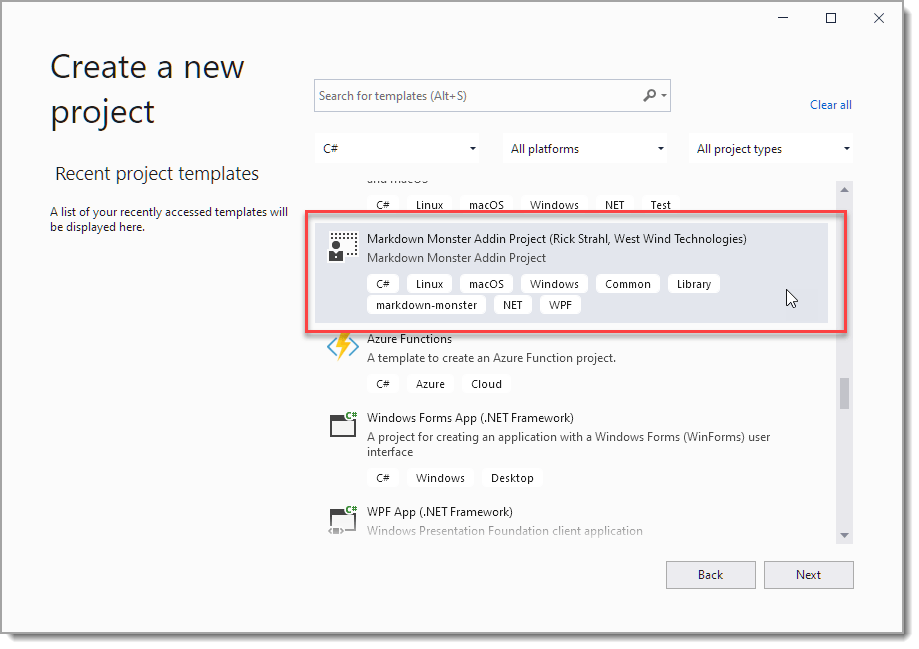
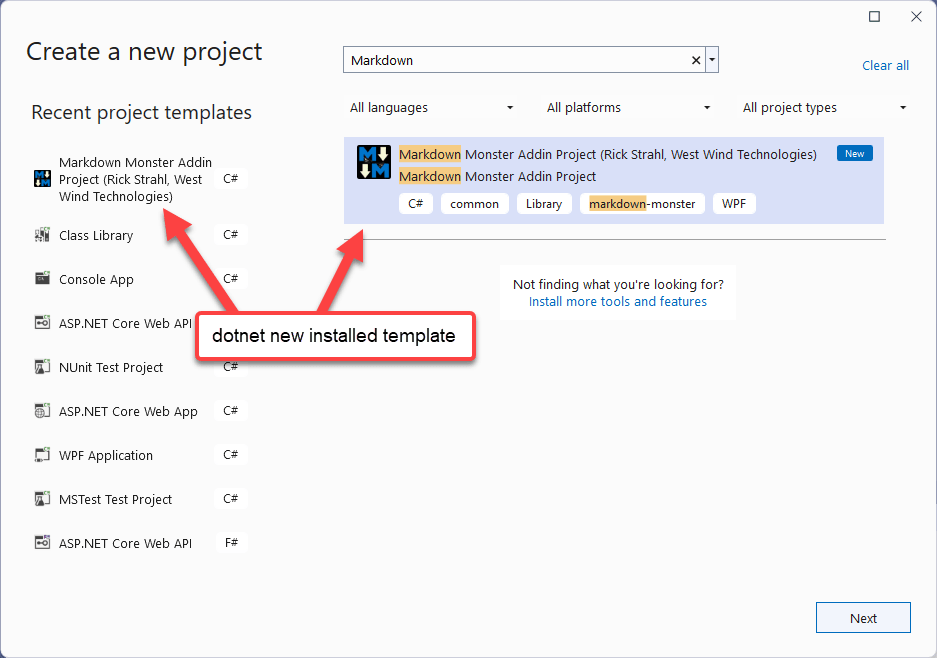
Update CreatingNetProjectTemplates.md

diff --git a/2020-10/Creating-.NET-Project-Templates/CreatingNetProjectTemplates.md b/2020-10/Creating-.NET-Project-Templates/CreatingNetProjectTemplates.md
@@ -1,24 +1,20 @@
 ---
 title: Creating Custom .NET Project Types with .NET CLI Project Templates
 abstract: Custom project templates can be extremely useful in quickly creating new projects especially for extensible applications. They're also great for creating specialized setups to make it quicker to hit the ground running. With the .NET SDK tooling new project templates are now easy to create and this post takes you through the process.
-categories: .NET, .NET Core
 keywords: project,template,dotnet new
+categories: .NET, .NET Core
 weblogName: West Wind Web Log
 postId: 2036743
+permalink: https://weblog.west-wind.com/posts/2020/Oct/05/Creating-a-dotnet-new-Project-Template
+postDate: 2020-10-05T23:05:11.5235085-07:00
+postStatus: publish
 dontInferFeaturedImage: true
 dontStripH1Header: false
-postStatus: publish
-permalink: https://weblog.west-wind.com/posts/2020/Oct/05/Creating-a-dotnet-new-Project-Template
-postDate: 2020-10-05T20:05:11.5235085-10:00
-customFields:
-  wp_post_thumbnail:
-    id: 
-    key: wp_post_thumbnail
-    value: https://weblog.west-wind.com/images/2020/Creating-.NET-Project-Templates/ProjectTemplateLayout.png
 ---
 # Creating Custom .NET Project Types with .NET CLI Project Templates
 
-
+![](Banner.png)\
+*<small>updated: July 15th, 2023</small>*
 
 I recently updated my [Visual Studio template for creating Markdown Monster addins](https://marketplace.visualstudio.com/items?itemname=rickstrahl.markdownmonsteraddinproject) in order to support the newer .NET SDK style projects, which are easier to work with and provide a 'ready-to-run' [Markdown Monster Addin project](https://markdownmonster.west-wind.com/docs/_4ne0s0qoi.htm) which was not quite possible with the older project type and a project template.
 
@@ -36,7 +32,7 @@ The new project system also supports a straight forward mechanism for creating y
 
 You can also create your own templates and easily publish and share them via NuGet. They are easy to create: You create a template project that contains all the files you want to be contained in your template, and wrap around a project folder hierarchy and add a small metadata file that describes your template.
 
-The wrapped template - or several of them - can then be bundled up into a NuGet package that can be published and shared on the NuGet Repository and can be installed via `dotnet new -i <package-name>`.
+The wrapped template - or several of them - can then be bundled up into a NuGet package that can be published and shared on the NuGet Repository and can be installed via `dotnet new install <package-name>`.
 
 While this is process is not vastly different from the process for Visual Studio Templates, the syntax and metadata used, plus the debug and run cycle is much more manageable. For example, you can simply update your template by reinstalling it and re-running the template. Templates can be installed from online NuGet packages, local NuGet packages, or a local folder. This makes it quick and easy to make changes to a template, test it out again and get it perfect.  When done publishing to NuGet for sharing your template with the world is just a few more simple commands away.
 
@@ -275,11 +271,11 @@ The good news is that unlike Visual Studio extensions it's super easy to install
 You can also install your project template from:
 
 * **A NuGet package from NuGet.org**  
-`dotnet new -i <package-id>`
+`dotnet new install <package-id>`
 * **A local NuGet Package from a folder**  
-`dotnet new -i <path-to-nuget-package>`
+`dotnet new install <path-to-nuget-package>`
 * **A Project Folder**  
-`dotnet new -i <path-to-project-template-folder>`
+`dotnet new install <path-to-project-template-folder>`
 
 For initial testing the easiest is usually to use your project template folder, which in my example here is the path to the `MarkdownMonsterAddinProject` folder in **Figure 1**.
 
@@ -287,7 +283,7 @@ To test the addin:
 
 ```ps
 # Install template from local folder
-dotnet new -i "<project-path>\templates\MarkdownMonsterAddinProject"
+dotnet new install "<project-path>\templates\MySweetAddin"
 
 # create a new project folder
 md \projects\MySweetAddin
@@ -300,17 +296,17 @@ dotnet new -n MySweetAddin -c "West Wind Technologies"
 code .
 ```
 
-If you install your template and you find out that it's not working quite right, you can simply fix the template in your project and then re-run the `dotnet new -i` command to re-install the template from the folder. You can then simply delete the contents of the generated project folder and re-run the install:
+If you install your template and you find out that it's not working quite right, you can simply fix the template in your project and then re-run the `dotnet new install` command to re-install the template from the folder. You can then simply delete the contents of the generated project folder and re-run the install:
 
 ```ps
 # assuming you're still in the MySweetAddin folder
 remove-item *.* -f -recurse
 
-# reinstall the template
-dotnet new -i "<project-path>\templates\MarkdownMonsterAddinProject"
+# install the template
+dotnet new install "<project-path>\templates\MySweetAddin"
 
-# create the project again
-dotnet new -n MySweetAddin -c "West Wind Technologies"
+# create the project
+dotnet new -n MySweetAddin --company "West Wind Technologies"
 code .
 ```
 
@@ -342,29 +338,29 @@ if (test-path ./nupkg) {
 dotnet build -c Release
 
 $filename = gci "./nupkg/*.nupkg" | sort LastWriteTime | select -last 1 | select -ExpandProperty "Name"
+
+
 $len = $filename.length
 
 if ($len -gt 0) {
     Write-Host "Signing... $filename"
-    nuget sign  ".\nupkg\$filename"   -CertificateSubject "West Wind Technologies" -timestamper " http://timestamp.comodoca.com"
+    nuget sign  ".\nupkg\$filename" -CertificateSubject "West Wind Technologies" -timestamper " http://timestamp.digicert.com"  
        
-    # nuget setapikey <key> -source nuget.org
-       
-    nuget push  ".\nupkg\$filename" -source nuget.org
+    nuget push  ".\nupkg\$filename" -source "https://nuget.org" 
 }
 ```
 
 Here's the package, published on NuGet:
 
-![](PublishedPackage.png)  
+![](PublishedPackage.png)
 <small>**Figure 4** - The published package on NuGet</small>
 
 ### Installing and Running from NuGet
 Once the package has been published you can now install it from NuGet.org by simply running:
 
 ```ps
-# install/update the project template
-dotnet new -i MarkdownMonster.AddinProject.Template
+# First-time install/update the project template
+dotnet new install MarkdownMonster.AddinProject.Template
 
 # Create the new project
 md \projects\MySweetAddin
@@ -390,8 +386,8 @@ Cool. One nice thing about the new .NET SDK templates is that they can be custom
 
 Sweet!
 
-### What about Visual Studio?
-You can of course also open this generated project in Visual Studio; you don't need to compile or run from the command line as I'm doing here. 
+### Open generated Project in Visual Studio
+You can of course also open this generated project in Visual Studio. You don't need to compile or run from the command line as I've shown above.
 
 To open the project in Visual Studio:
 
@@ -404,33 +400,39 @@ Here's what the generated folder and Visual Studio look like when the project is
 ![](ProjectInVisualStudio.png)  
 <small>**Figure 6** - Opening the new project in Visual Studio</small>
 
+> If you want to auto-launch an addin you'll probably want to add a `Properties\Launchsettings.json` file that points at your main executable that launches the app and then launches your addin.
 
-## Visual Studio Extension or Dotnet New Template
+## Visual Studio Extension or Dotnet New Template?
 In this article I've gone into detail on how to create a project template with the `dotnet new` SDK tooling and it's pretty easy to create these templates. Compared to creating a Visual Studio addin the process of the project template creation is much simpler and much more maintainable. It's easier to create the templates, much, much easier to test and update them, and the format layouts are straight-forward so that coming back to them after a few months won't be a shock. By comparison Visual Studio Project Template Extensions are a bit painful, especially the VSIX creation process.
 
-The big benefit of a Visual Studio Extension is discoverability and ease of installation in Visual Studio. Using the Visual Studio Marketplace is very easy and quick - although you do have to restart Visual Studio these days to install new extensions.
 
-dotnet new templates unfortunately do not show up in Visual Studio's New Project dialog (yet), so you're pretty much relegated to using the `dotnet new` command line to create projects. Since that's a one time deal that's probably not a big deal. 
+### Dotnet New Templates: Also playing in Visual Studio now
+The good news is that `dotnet new` installed templates also show up in Visual Studio as a project template, so from a purely functional point of view you no longer need a VSIX extension.
 
-On the plus side, unlike Visual Studio project templates, you can use `dotnet new` templates for any other IDE, so they work with Visual Studio, Rider and any OmniSharp based environment. 
+`dotnet new` installed templates don't show up in the Extensions Manager, so you have to know what you're looking for when creating a new project  by searching for the project type.
 
-For example, [JetBrains Rider](https://www.jetbrains.com/rider/) picks up my new template in the **New Solution** dialog:
+![](DotnetTemplateInVisualStudio.png)
 
-![](RiderNewProjectDialogWithMarkdownMonsterTemplate.png)  
+<small>**Figure 8** - using a dotnet new template in Visual Studio: It's just available</small>
+
+The only downside compared to a full VSIX project is the visibility and discoverability in the Extension Manager and Marketplace app. But functionally the `dotnet new` template provides most of the same features - unless you need explicit shell Visual Studio Shell integration - that a VSIX does, **without all the complexity of setting up and maintaing a VSIX project.
+
+### Dotnet New Templates in Rider: Look for 'Other`
+[JetBrains Rider](https://www.jetbrains.com/rider/) picks up my new template in the **New Solution** dialog on the bottom of the Template list in the **Other** section:
+
+![](RiderNewProjectDialogWithMarkdownMonsterTemplate.png)
 <small>**Figure 7** - JetBrains Rider shows `dotnet new` templates in its *New Solution* dialog</small>
 
-### Dotnet New Templates in Visual Studio
-`dotnet new` installed templates are also available in Visual Studio, but they don't show up in the Extensions Manager, so you have to know what you're looking for to use it by searching for the project type.
+### Template Installation Location (Windows)
+Since templates are just an installed component any environment that supports .NET projects can use them to create a new project by checking for installed templates in a folder:
 
-![](DotnetTemplateInVisualStudio.png)  
-<small>**Figure 8** - Selecting a dotnet new template is still a bit rough</small>
+```ps
+%userprofile\.templateengine\packages
+```
 
-This dialog has seen a lot of improvements since I originally wrote this post. Now you can:
+![](TemplatePackage.png)
 
-* Add an icon `icon.png` in the `templates.config` folder to show an icon
-* Parameters are now prompted for
-
-In short you can easily use the template in Visual Studio, but you have to know how it's there as there's no UI to discover installed templates.
+The folder holds NuGet packages, which are just a Zip file that can be opened and unpacked and parsed with the `./template.config/template.json` file holding the template detail information to display on a template listing.
 
 ## Summary
 Creating project templates can be very productive for certain scenarios. In my scenario of allowing users to easily create new Addins for Markdown Monster, I certainly want to make that process as easy as possible. Nothing sucks more than trying to get stuck before you ever get your first bit of code to run. Project templates make it possible to create a new project that's ready to run with just a few dotnet CLI commands which is awesome.

diff --git a/New-Posts/Using-Application-Protocols-to-Open-Desktop-Applications-from-a-Browser/UsingApplicationProtocolsToOpenDesktopApplicationsFromABrowser.md b/New-Posts/Using-Application-Protocols-to-Open-Desktop-Applications-from-a-Browser/UsingApplicationProtocolsToOpenDesktopApplicationsFromABrowser.md
@@ -1,0 +1,46 @@
+---
+title: Using Application Protocols to Open Desktop Applications from a Browser
+abstract: Application Protocols allow you to open an application using either shell protocols using ShellExecute or a WebBrowser using syntax like `markdownmonster:open` or `markdownmonster:untitled`. This can be an easy and useful mechanism for launching applications especially from a browser.
+categories: HTML, Web, .NET
+keywords: Application Protocols, Execute, Binary, Launch
+weblogName: Rick Strahl WordPress
+postDate: 2020-05-16T08:53:08.0358185-10:00
+customFields:
+  mt_publishon:
+    key: mt_publishon
+    value: 05/10/2017 08:00
+  mt_location:
+    key: mt_location
+    value: Maui, Hawaii
+    
+---
+# Using Application Protocols to Open Desktop Applications from a Browser
+
+I've been playing around with some idea on how to get my Markdown Monster editor to launch from within a browser. I'm currently working on a couple of documentation project and one feature that would be very handy is to have an **Open in Markdown Monster** button to edit text. There are other ways to skin that cat, from editing inside of the browser etc. But in this case all the templates and of all the sophisticated editing functionality is all there already.
+
+I'm going to make this a two-part post related to Browser to Desktop communication. This part discusses Application Protocols which is an OS supported feature. In the next part I'll talk about cross application communication that addresses some of the shortcomings of Application Protocols.
+
+## Communication from Browser to Desktop
+Communication between a browser and a desktop application at first glance seems completely off limits, right? Browsers don't have access to an underlying OS or the applications hosted on it, so it seems like it would be impossible to cause an external application to be 'loaded'. Which is as it should be - long gone are the old days of IE ActiveX controls where it was possible to instantiate COM objects or binary ActiveX controls and load them in the browser. That was some scary shit although at the time it was first announced it seemed like a good idea. Many vulnerabilities later taught us otherwise.
+
+There are a number of mechanisms that you can use to communicate between browser and desktop however. But on their own for the most part they are fairly limited - it requires some combination of them to effectively use them.
+
+Here are a few approaches available:
+
+1. Application Protocols (for launching applications and send minimal data)
+2. Desktop App Web Server hosted for Browser to connect to
+3.  Web Socket Server for Desktop App
+
+In these two articles I'll focus on #1 and #3 first individually and then in combination.
+
+## What are Application Protocols
+You may not have heard of the term **Application Protocols**, but you've almost surely used them before. I used refer to Application Protocols as **URL Monikers** (dating back the IE protocol handlers) or you might have heard others refer to them as **Url Schemes**.
+
+In a nutshell Application Protocols are the prefix used on a URL that determines the *protocol* used for that URL. The most obvious of these *schemes* are `http:<url>` and `https:<url>`. Others you've used are `mailto:<emailAddress>`, `ftp:<site>`. Others yet you might have seen are application specific handlers like `skype:<number>` or `zoom:<meetingId>` to name a couple.
+
+Application Protocols can be created for **any application**, and so I created a `markdownmonster:` Application Protocol handler. Protocol handlers can be used as:
+
+* URLs in a browser
+* Can be executed by `ShellExecute`
+
+it requires entries in the Administrative `HKEY_ROOT` hive of the registry, meaning that you need an installer or at minimum and Admin elevated process to create these handlers.

diff --git a/2023-05/Getting .NET Library Projects to Output Dependent Assemblies/GettingNetLibraryProjectsToOutputDependentAssemblies.md b/2023-05/Getting .NET Library Projects to Output Dependent Assemblies/GettingNetLibraryProjectsToOutputDependentAssemblies.md
@@ -172,19 +172,43 @@ The following **does not work**:
 
 So much promise, so little satisfaction 😂
 
+### Project and Assembly References - Different again
+As if all of this wasn't confusing enough, things work a little differently yet with project and assembly references. Assembly and project references in .NET Core import and output all dependencies into the output folder, so you have to **explicitly prevent that from happening** if you don't want a mess of assemblies in an addin output folder.
+
+The common scenario with assembly references is that I want addin authors to have a quick way to reference the main application by adding either an assembly reference to the binary, or - if they want to work with the source code - use a project reference.
+
+To create a reference that **does not** include all the reference's assemblies:
+
+**Assembly Reference** 
+
+```xml
+<ItemGroup>
+   <Reference Include="MarkdownMonster">
+      <HintPath>..\MarkdownMonster\bin\Release\net7.0-windows\MarkdownMonster.dll</HintPath>
+      <Private>false</Private>
+      <IncludeAssets>compile</IncludeAssets>
+   </Reference>
+</ItemGroup>
+```
+
+**Project Reference**
+
+```xml
+<ItemGroup>
+   <ProjectReference Include="..\MarkdownMonster\MarkdownMonster.csproj" >
+      <Private>false</Private>
+      <IncludeAssets>compile</IncludeAssets>
+   </ProjectReference>
+</ItemGroup>
+```
+
+So this behavior is the opposite of what I described for the NuGet packages. Go figure...
+
+
 ## Summary
-At the end of the day, the only thing works with explicit build output in library projects is:
+At the end of the day, it's great that the build system supports all of these combinations of features. It's annoying that there isn't more consistency and that the naming is confusing at best, and misleading at worst. But it's way more important that we can get the job done and the options allow for that!
 
-* Use: `<CopyLocalLockFileAssemblies>true</CopyLocalLockFileAssemblies>` to output everything
-* Mark all packages that you **don't want to output** with `<IncludeAssets>compile</IncludeAssets>`
-* Everything else is then sent to the build output folder
-
-This is tedious as this basically says:
-
-* Include everything
-* Then explicitly exclude everything, except the one thing I want to include.
-
-But hey it gets the job done, even if verbose and counter-intuitive and that's better than not working at all :smile:
+It's confusing, but once you know you know and you can copy and paste. But I'll be damned if can remember all this off the top of my head. So I know I'll be back for this post to jog my memory. Maybe you will be too... :metal: 
 
 <div style="margin-top: 30px;font-size: 0.8em;
             border-top: 1px solid #eee;padding-top: 8px;">

diff --git a/2022-11/Fixing-VFPOLEDB-provider-is-not-registered-on-the-local-machine-Error/FixingVfpoledbProviderIsNotRegisteredOnTheLocalMachineError.md b/2022-11/Fixing-VFPOLEDB-provider-is-not-registered-on-the-local-machine-Error/FixingVfpoledbProviderIsNotRegisteredOnTheLocalMachineError.md
@@ -101,11 +101,16 @@ There aren't very good alternatives for FoxPro if you have to work with 64 bit a
 
 One option is to build out of process COM components. Because the components are out of process they run separately from the host application in their own host and so allow you to use a 32 bit FoxPro server with a 64 bit application.
 
-Another option is to build a Web service (including a local service) of some sort and share data that way.
+Another option is to build a Web service (including a local service) that can run in 32 bit and share data that way.
 
 Finally VFP 10 Advanced also offers options for compiling FoxPro code to 64 bit including creating COM objects, but that introduces its own set of problems if you depend on DLLs that FoxPro might be using (I do in most of my applications) because now the 64 bit FoxPro application can't use 32 bit DLLs. Heads you lose, tails you lose, huh?
 
+[Advantage OleDb drivers](https://www.connectionstrings.com/advantage-ole-db-provider/using-foxpro-tables/) also used to support 64 bit access to FoxPro databases, however since SAP bought them out those drivers no longer seem to be available - I can't find them any longer. If you can dig up the old drivers, that's *a potential option*.
+
 It sucks being stuck in 32 bit, but unfortunately that's what happens eventually with legacy software that is far removed from modern development stacks.
+
+## Alternatives: Don't use FoxPro Data!
+Finally it probably should be stated that using FoxPro data from other applications is probably not the best course of action. If you use a more common data store like SQL Server, PostGres or MySql/MariaDb you have a much easier path to data interoperability. If you still are on FoxPro data, and you plan on continuing to use FoxPro, it might be a worth while consideration to at least update the data access to use a centralized data store that does not require FoxPro specific components to be accessed.
 
 ## Summary
 32 bit technology is on its last leg and the VFP OleDb provider is one of the 32 bit only components that on the very end of that leg and so both the VFP OleDb and ODBC drivers are unlikely to be used in new development that needs to interface with modern applications.

diff --git a/2017-09/POSTing-Raw-Body-Text-to-ASP.NET-Core-API-Controllers/PostRawContent_SavedForScreenShot.md b/2017-09/POSTing-Raw-Body-Text-to-ASP.NET-Core-API-Controllers/PostRawContent_SavedForScreenShot.md
@@ -7,7 +7,7 @@ postId: 398834
 
 ![](Raw-Data.jpg)
 
-A few years back I wrote a post about [Accepting Raw Request Content with ASP.NET Web API](https://weblog.west-wind.com/posts/2013/Dec/13/Accepting-Raw-Request-Body-Content-with-ASPNET-Web-API). The process to get at raw request data is rather indirext, with no easy, or official way to get it into Controller action parameters. Not much has raelly changed in ASP.NET Core.
+A few years back I wrote a post about [Accepting Raw Request Content with ASP.NET Web API](https://weblog.west-wind.com/posts/2013/Dec/13/Accepting-Raw-Request-Body-Content). The process to get at raw request data is rather indirext, with no easy, or official way to get it into Controller action params. Not much has raelly changed in ASP.NET Core.
 
 ### Creating a Simple Test Controller
 To check this out I created a new stock Core Web API project and changed the default `ValuesController` to this:

diff --git a/2023-06/Creating a Runtime Checker and Installer for a .NET Core WPF Application/CreatingARuntimeCheckerAndInstallerForANetCoreWpfApplication.md b/2023-06/Creating a Runtime Checker and Installer for a .NET Core WPF Application/CreatingARuntimeCheckerAndInstallerForANetCoreWpfApplication.md
@@ -412,6 +412,7 @@ I'd be curious to hear if there are [any issues](https://github.com/RickStrahl/M
 ## Wouldn't it be nice...
 ... if the .NET EXE launcher had much of this functionality built into it? Instead of sending users to the download directory the launcher could provide the download and install functionality and then launch the EXE afterwards.
 
+
 But... for now this installer + custom launcher provides similar functionality albeit recreating a bunch of functionality that already exists in the native launcher :smile:
 
 ## Summary
